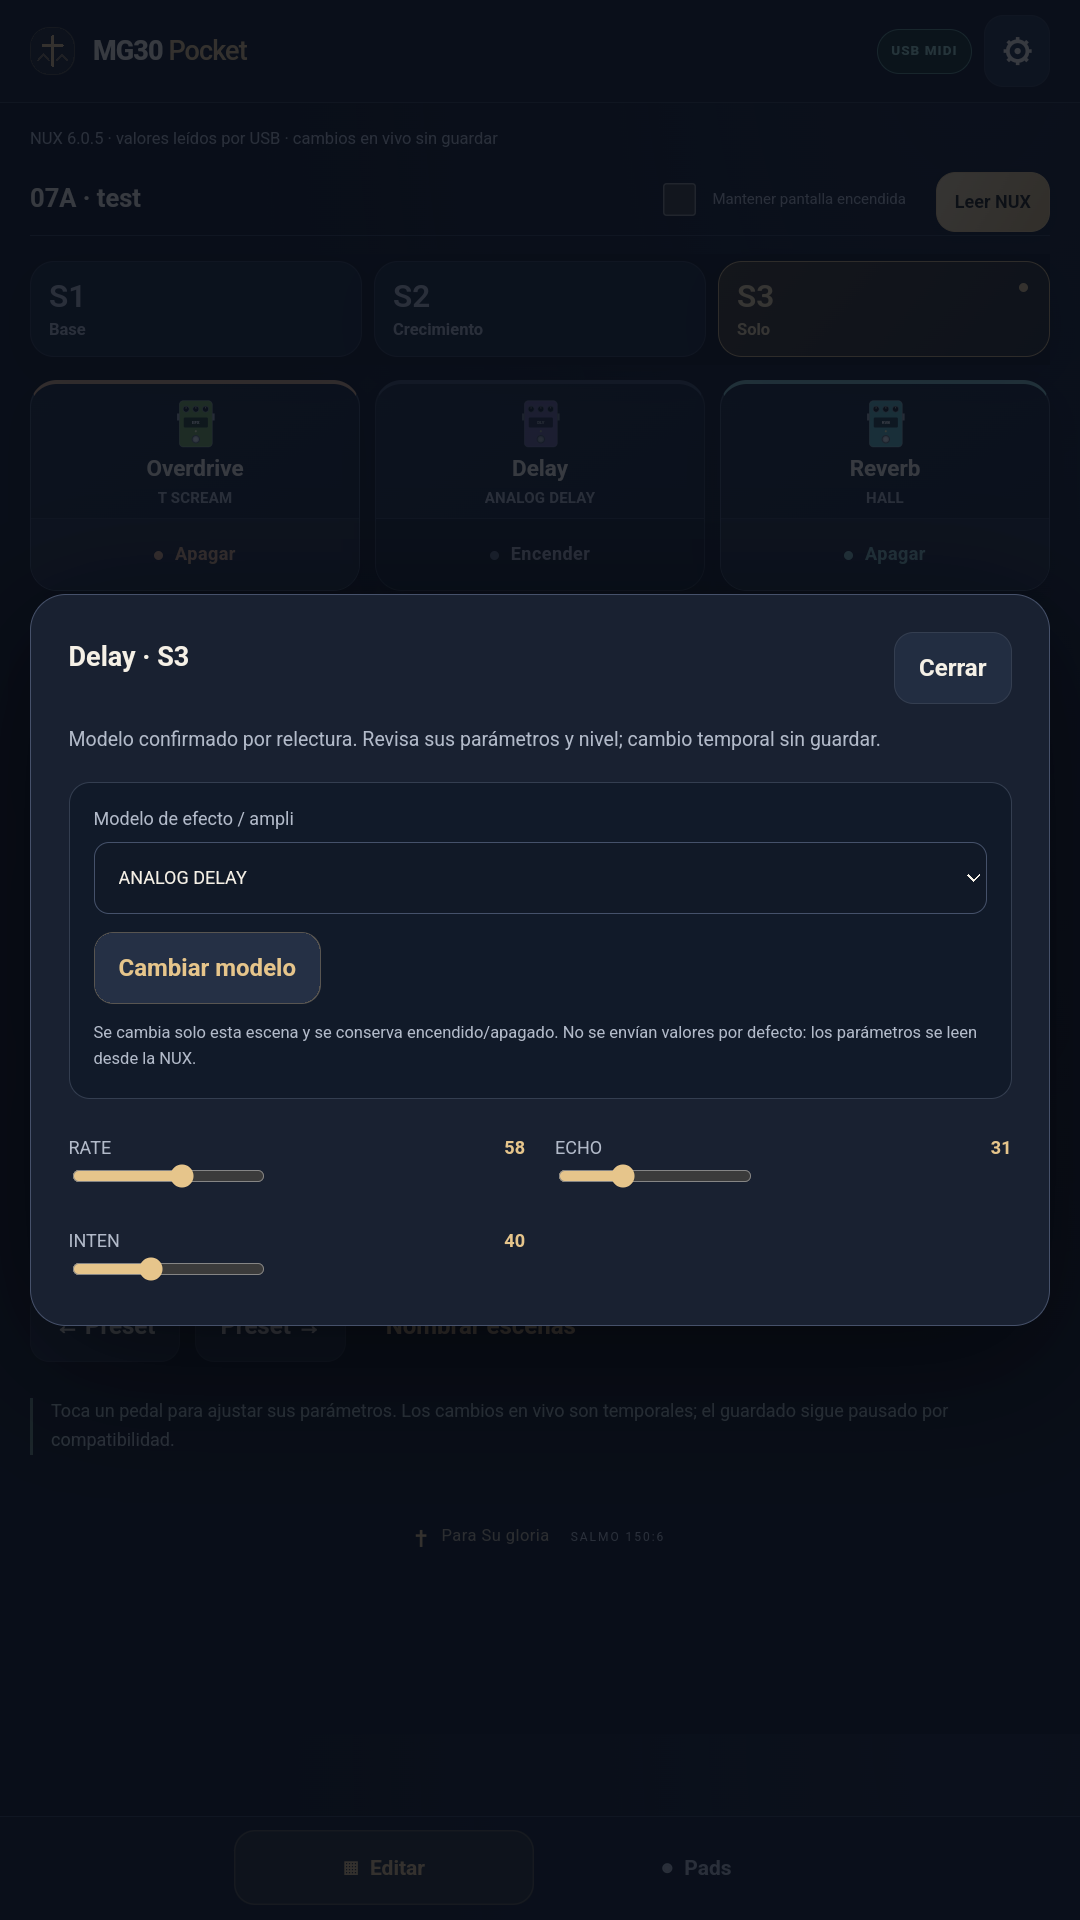
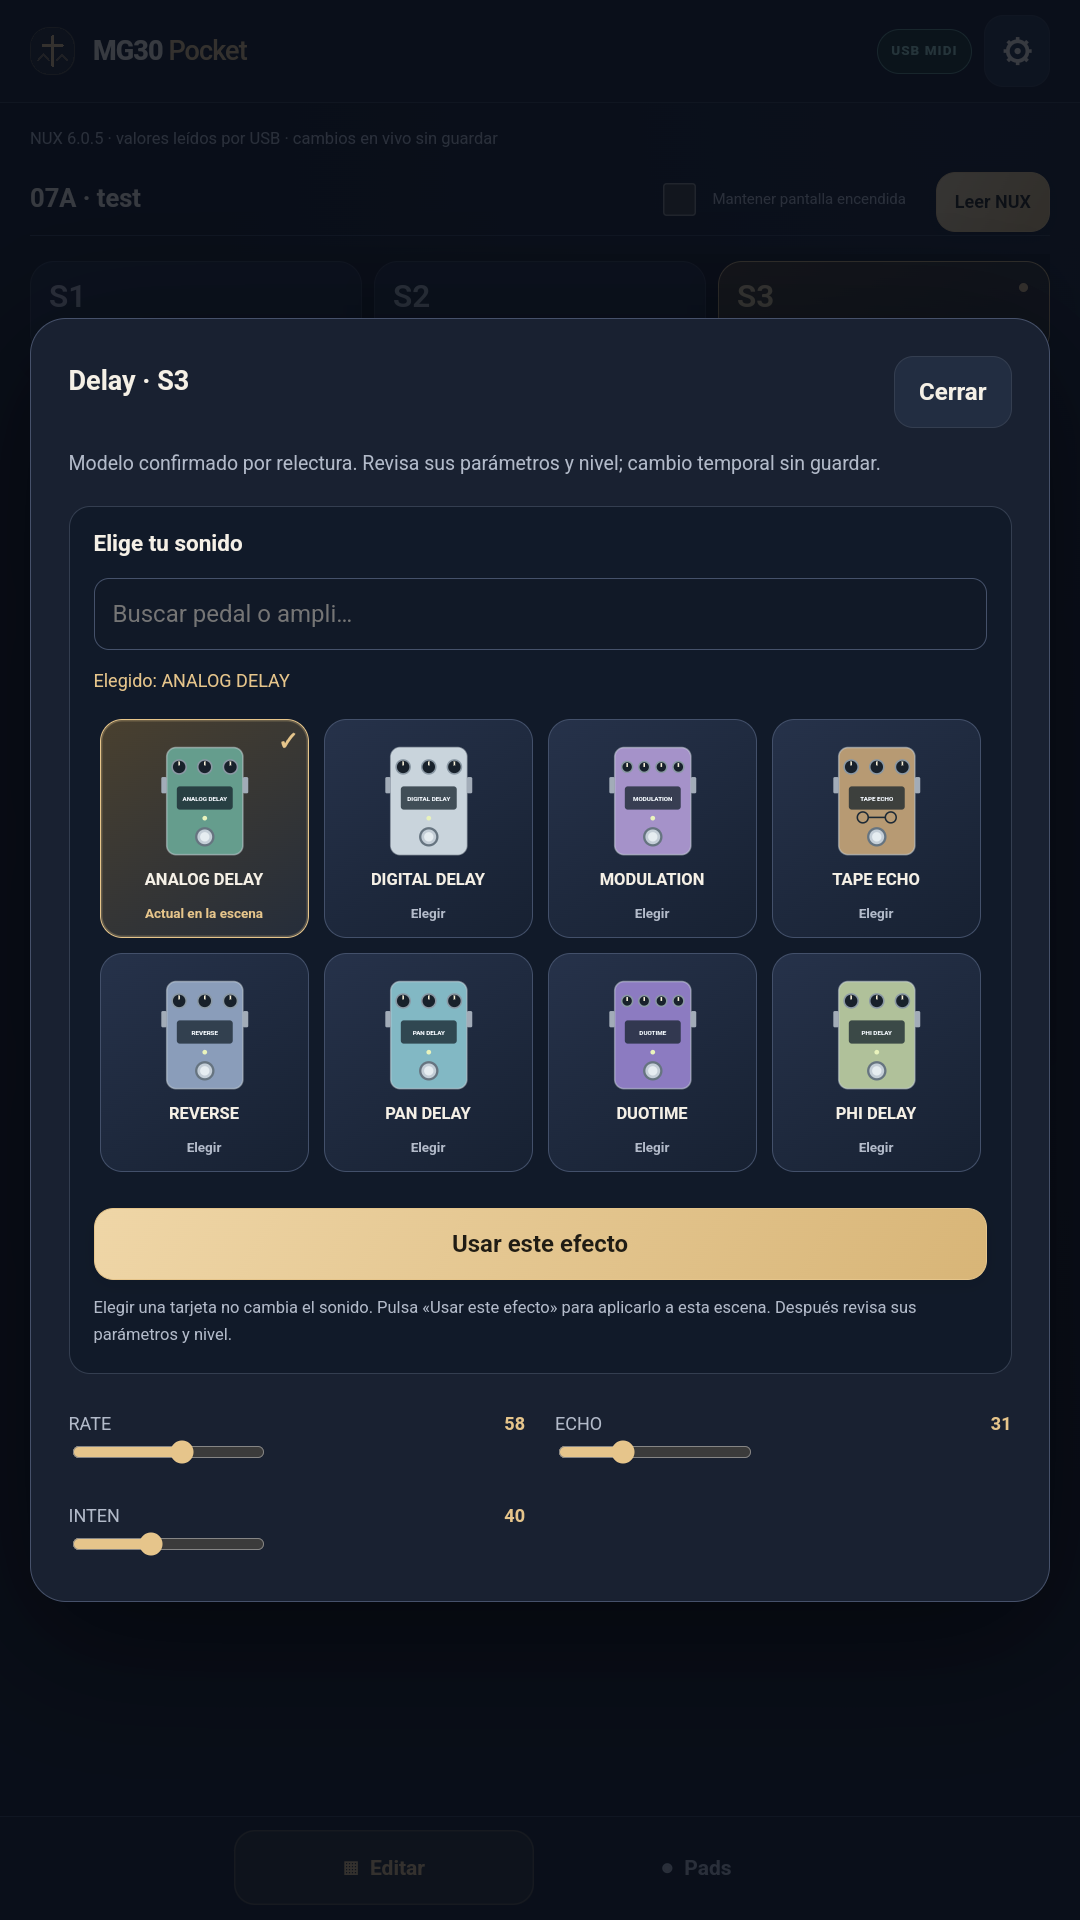
Replace effect dropdowns with illustrated searchable model cards

diff --git a/app/src/main/assets/www/style.css b/app/src/main/assets/www/style.css
@@ -58,7 +58,7 @@ button:disabled{opacity:.55}
 .bottom button.active{background:#e6c58b17;color:var(--gold);box-shadow:inset 0 0 0 1px #b69c6d55}
 input[type=range],input[type=checkbox]{accent-color:var(--gold)}
 #stageModelControls{background:#111a29;border:1px solid var(--line);border-radius:14px;padding:16px;margin:18px 0 22px}
-#stageModelApply{margin-top:12px;color:var(--gold);border-color:#a58d6466}
+#stageModelApply{margin-top:16px;width:100%}
 #stageModelControls .muted{margin-bottom:0;font-size:11px}
 dialog{box-shadow:0 24px 90px #0008;border-color:#46516a;border-radius:24px}
 dialog::backdrop{background:#080d17cc}
@@ -79,3 +79,18 @@ dialog::backdrop{background:#080d17cc}
   .bottom{background:#131b2b;padding-top:6px}.bottom button{min-height:46px}
 }
 @media(max-height:480px) and (min-width:700px){.performance-pad[data-kind="scene"] small{display:none}}
+
+.model-picker{min-width:0}.model-picker input[type=search]{margin-top:0}
+.model-selection{color:var(--gold);font-size:12px;margin:12px 0}
+.model-grid{display:grid;grid-template-columns:repeat(3,minmax(0,1fr));gap:10px;max-height:310px;overflow-y:auto;padding:3px 4px 8px;overscroll-behavior:contain}
+.model-card{position:relative;display:flex;flex-direction:column;align-items:center;justify-content:flex-start;min-width:0;padding:8px 5px 10px;background:linear-gradient(145deg,#26324a,#172132);border:1px solid #43506a;border-radius:15px;text-align:center}
+.model-card .gear-art{width:100%;height:76px;flex:none;opacity:1}
+.model-card strong{font-size:10px;line-height:1.35;overflow-wrap:anywhere;font-weight:700;margin:4px 0}
+.model-card small{font-size:9px;color:var(--muted);margin-top:auto;padding-top:5px}
+.model-card[aria-pressed=true]{border-color:var(--gold);background:linear-gradient(145deg,#49402f,#252d3a);box-shadow:inset 0 0 0 1px #e6c58b44}
+.model-card[aria-pressed=true] small{color:var(--gold)}
+.model-card[aria-pressed=true]::after{content:'\2713';position:absolute;top:6px;right:8px;color:var(--gold);font-size:12px}
+#stageModelControls h3{font-size:15px;margin:0 0 14px}
+#blockEditor .model-picker{margin:16px 0 24px}
+@media(min-width:600px){.model-grid{grid-template-columns:repeat(4,minmax(0,1fr));max-height:340px}.model-card .gear-art{height:88px}.model-card strong{font-size:11px}}
+@media(max-width:380px){.model-grid{grid-template-columns:repeat(2,minmax(0,1fr));max-height:270px}.model-card .gear-art{height:72px}#stageModelControls{padding:12px}}

diff --git a/app/src/androidTest/java/cl/isanfurg/mg30pocket/SmokeRunner.java b/app/src/androidTest/java/cl/isanfurg/mg30pocket/SmokeRunner.java
@@ -98,13 +98,23 @@ public class SmokeRunner extends Instrumentation {
             evaluate(delay+".querySelector('.stage-open').click()");
             evaluate("(()=>{const r=document.querySelector('#stageParameters input');r.value=58;r.dispatchEvent(new Event('input'));r.dispatchEvent(new Event('change'));})()");
             until("document.getElementById('stageEditorState').textContent.startsWith('Ajuste confirmado')","true");
-            evaluate("document.getElementById('stageModel').value='1';document.getElementById('stageModelApply').click()");
+            int beforeModelChoice=peer.channelMessages;
+            evaluate("document.querySelector('#stageModel [data-model=\"1\"]').click()");
+            if(peer.channelMessages!=beforeModelChoice)throw new AssertionError("Browsing model cards executed MIDI");
+            check("document.querySelector('#stageModel [data-model=\"1\"]').getAttribute('aria-pressed')==='true'","true");
+            evaluate("document.getElementById('stageModelApply').click()");
             until("document.getElementById('stageEditorState').textContent.startsWith('Modelo confirmado') && !document.getElementById('stageSync').disabled","true");
-            check("document.getElementById('stageModel').value==='1'","true");
+            check("document.querySelector('#stageModel [data-model=\"1\"]').getAttribute('aria-pressed')==='true'","true");
             check(delay+".querySelector('.stage-toggle').textContent==='Encender'","true");
-            screenshot("qa-model-selector.png");
-            evaluate("document.getElementById('stageModel').value='2';document.getElementById('stageModelApply').click()");
+            Thread.sleep(350);screenshot("qa-model-selector.png");
+            evaluate("(()=>{const s=document.querySelector('#stageModel input');s.value='digital';s.dispatchEvent(new Event('input'));})()");
+            check("document.querySelectorAll('#stageModel [data-model]').length===1","true");
+            evaluate("document.querySelector('#stageModel [data-model=\"2\"]').click();document.getElementById('stageModelApply').click()");
             until("document.getElementById('stageEditorState').textContent.startsWith('Modelo confirmado') && !document.getElementById('stageSync').disabled","true");
+            evaluate("document.getElementById('stageEditorClose').click()");
+            evaluate("[...document.querySelectorAll('.stage-pedal')].find(x=>x.querySelector('strong').textContent==='Overdrive').querySelector('.stage-open').click()");
+            check("document.querySelector('#stageModel [data-model=\"5\"] svg')!==null","true");
+            Thread.sleep(350);screenshot("qa-drive-models.png");
             evaluate("document.getElementById('stageEditorClose').click()");
             check("document.getElementById('stageSave').disabled","true");
             evaluate("document.getElementById('padsTab').click()");

diff --git a/README.md b/README.md
@@ -6,17 +6,19 @@
 
 Azul noche, marfil y dorado suave; pedales y pads identificados por familia de efecto, estados con texto y luz, escenas grandes y controles táctiles. Una cruz pequeña en la marca y la firma «Para Su gloria · Salmo 150:6» acompañan la interfaz sin ocupar los controles. Todo funciona offline, sin fuentes ni imágenes remotas. Incluye icono Android y archivos PNG/SVG para la comunidad.
 
-### Novedades 0.4.0
+### Selector visual 0.4.2
 
-En **Editar**, toca un pedal, elige **Modelo de efecto / ampli** y pulsa **Cambiar modelo**. Permite cambiar overdrive, ampli, compresor, EQ, puerta, modulación, delay y reverb desde el catálogo de modelos normales. Conserva el bypass y modifica solo la escena actual; relee la NUX para confirmar el resultado y mostrar los parámetros del nuevo modelo. No envía parámetros por defecto: revisa los valores y el nivel después del cambio. IR/NAM y modelos especiales quedan fuera de este selector.
+En **Editar**, toca un pedal, busca por nombre y elige una tarjeta ilustrada en **Elige tu sonido**. La selección se resalta; la tarjeta del modelo que está sonando indica **Actual en la escena**. Elegir o buscar no envía MIDI: pulsa **Usar este efecto** para aplicarlo. Conserva el bypass y modifica solo la escena actual; relee la NUX para confirmar el resultado y mostrar sus parámetros. No envía valores por defecto: revisa los controles y el nivel después del cambio. IR/NAM y modelos especiales quedan fuera de este selector.
+
+El editor de archivos usa las mismas tarjetas; allí tocar una tarjeta cambia el archivo local. Ilustraciones vectoriales originales, colores por modelo, número de perillas y detalles para tape echo y shimmer; no se descargan fotos ni logos de terceros.
 
 Icono original incluido en Android y como [PNG](docs/images/icon.png) y [SVG para compartir](docs/images/icon.svg), bajo la licencia MIT del proyecto. Los cambios de modelo siguen siendo temporales: el guardado de bancos continúa pausado mientras se investiga el aviso de firmware. No se ha validado este selector con hardware físico.
 
-<img src="docs/images/model-selector.png" width="320" alt="Selector de modelo y controles en Android con NUX simulada">
+<img src="docs/images/drive-models.png" width="320" alt="Tarjetas ilustradas de overdrive con NUX simulada"> <img src="docs/images/model-selector.png" width="320" alt="Selector visual de delays con NUX simulada">
 
 App Android gratuita y offline para controlar una NUX MG-30 desde una tablet, junto a tu app de letras. Proyecto independiente, sin afiliación con NUX.
 
-[Descargar APK 0.4.1 de prueba](https://github.com/Isanfurg/mg30-pocket/releases/tag/v0.4.1)
+[Descargar APK 0.4.2 de prueba](https://github.com/Isanfurg/mg30-pocket/releases/tag/v0.4.2)
 
 ## Dos pestañas
 
